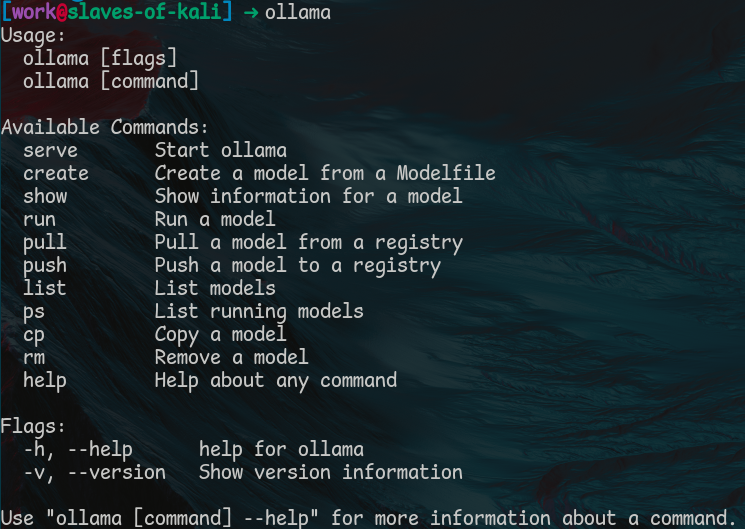
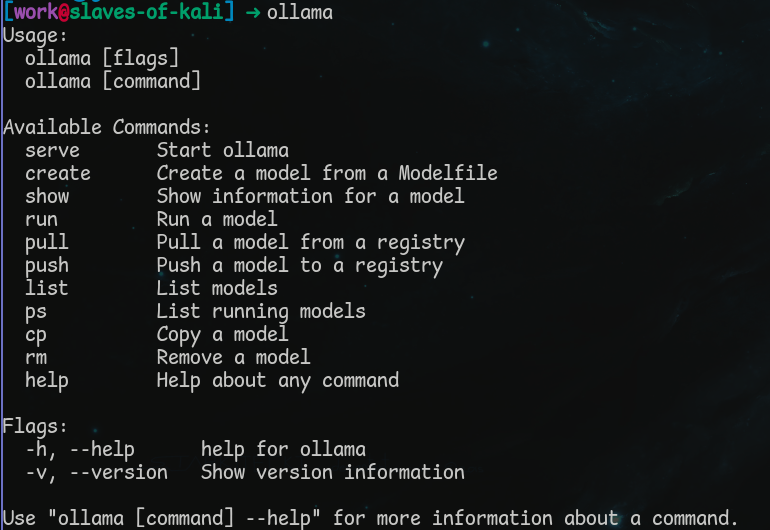
pic changes for better font size and new env name

diff --git a/ollama.md b/ollama.md
@@ -10,7 +10,7 @@ Ollama can be downloaded [here](https://ollama.com/download). Please follow the 
 
 When installation is complete, you should be able to enter "ollama" in your Terminal/Command Prompt and see the following:
 
-![](images/ollama/ollama-installed.gif)
+![](images/ollama/ollama-terminal.png)
 
 ## Running Ollama in the Terminal
 
@@ -18,17 +18,17 @@ Ollama is now on our system but at the present we can't use it to generate text 
 
 We can use the `ollama list` command to see what models are on the system:
 
-![There are no models at the moment](images/ollama/ollama-list-nothing.gif)
+![There are no models at the moment](images/ollama/ollama-list-nothing.png)
 
 To start with, we can download the `dolphin-phi` model by using the following command: `ollama pull dolphin-phi`
 
 ![Downloading a model](images/ollama/ollama-pull-dolphinphi.gif)
 
-After a while, the download will complete, and it becomes possible to chat with the dolphin-phi model. We can do this with the command `ollama run dolphin-phi`.
+After a while, the download will complete, and it becomes possible to chat with the dolphin-phi model. We can do this with the command `ollama run dolphin-phi`. Now I can ask the model some basic questions.
 
 ![Running a model](images/ollama/ollama-run-dolphinphi.gif)
 
-I can also see that a model has now been downloaded by running `ollama list` again:
+Using the `/exit` command I can leave the conversation. I can then that a model has now been downloaded by running `ollama list` again:
 
 ![Running a model](images/ollama/ollama-list-installed.png)
 
@@ -38,7 +38,7 @@ To see a list of available Ollama models, look here: https://ollama.com/search
 
 ## Ollama and Python
 
-There are two ways you can talk with Ollama using Python. Start by creating a conda environment and naming it ollama. Open either the terminal or the Miniforge prompt. Create an environment with the command `conda create --name ollama python=3.10` and then activate the environment with the command `conda activate ollama`.
+There are two ways you can talk with Ollama using Python. Start by creating a conda environment and naming it ollama. Open either the terminal or the Miniforge prompt. Create an environment with the command `conda create --name gen-ai python=3.10` and then activate the environment with the command `conda activate gen-ai`.
 
 ### `ollama-python`
 
